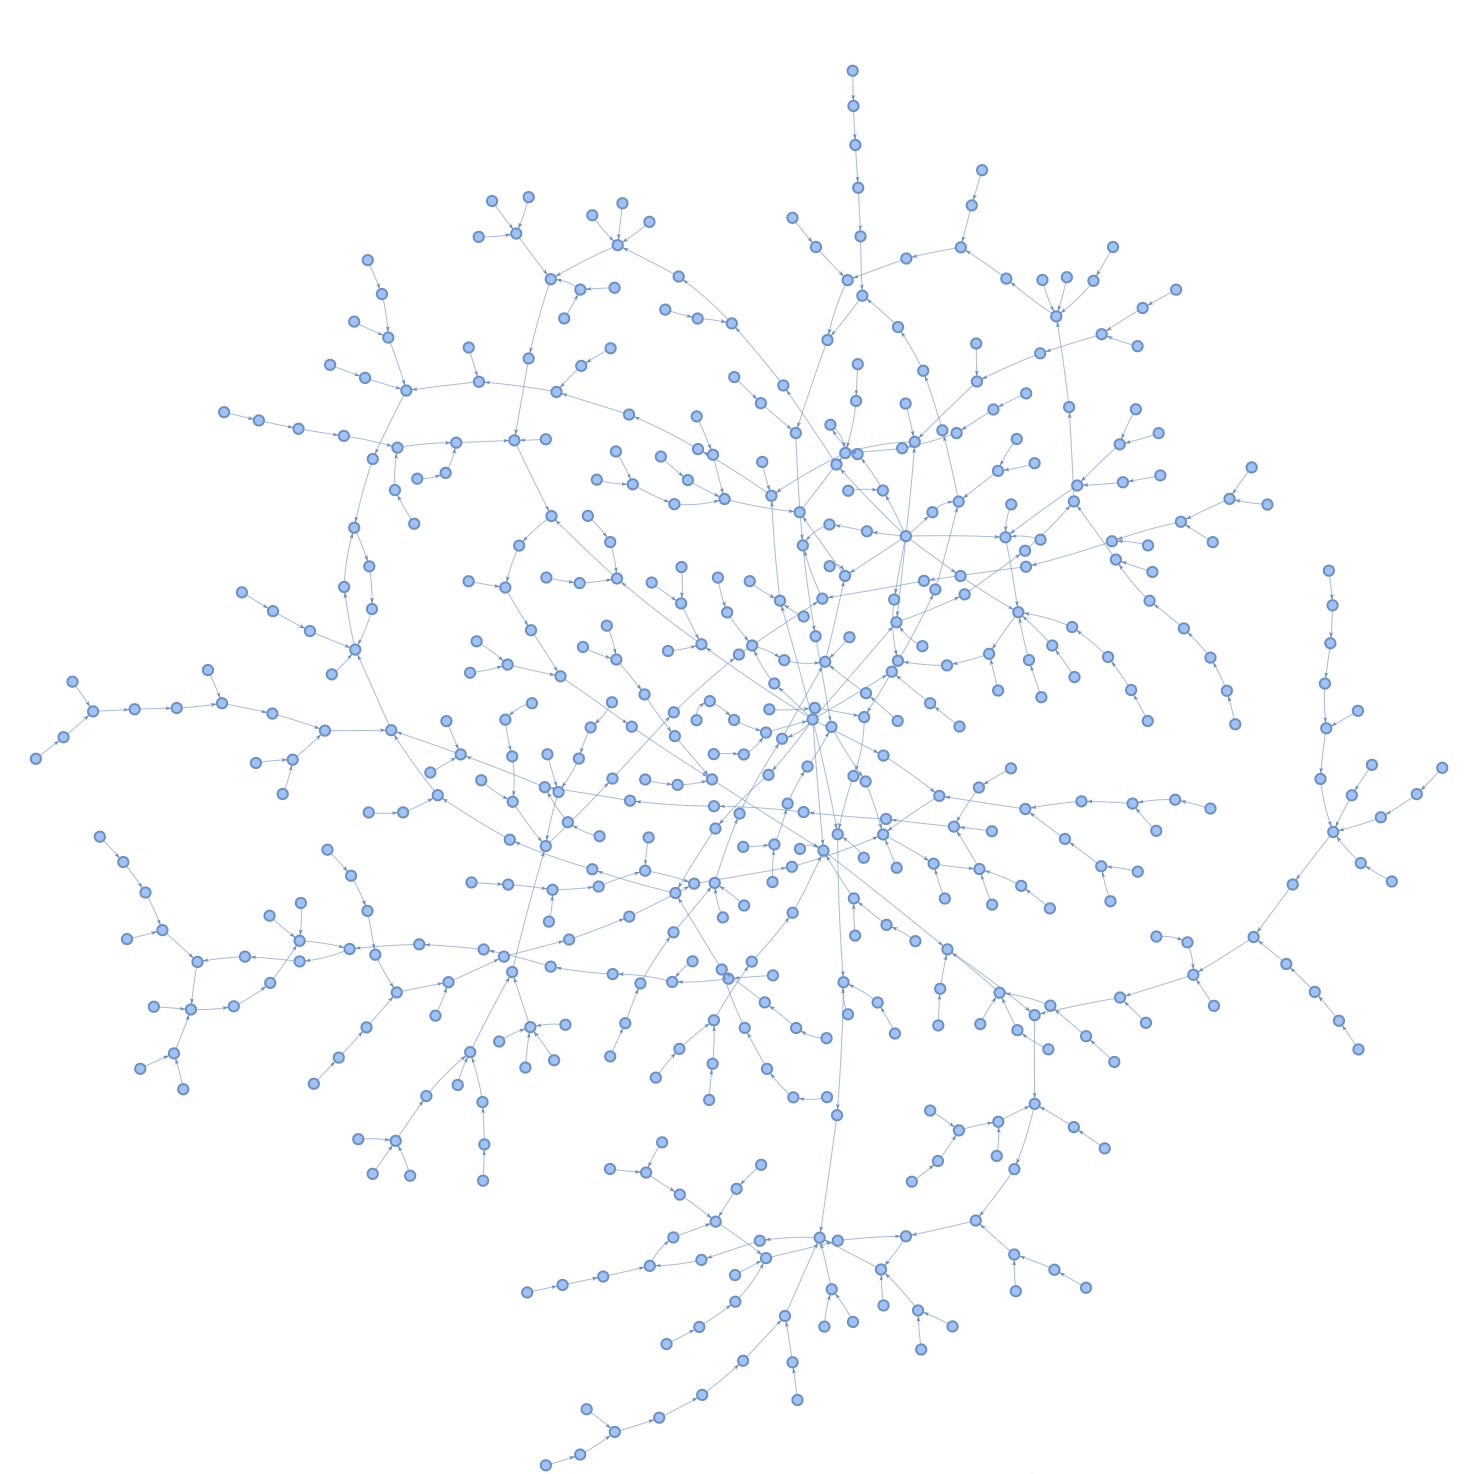
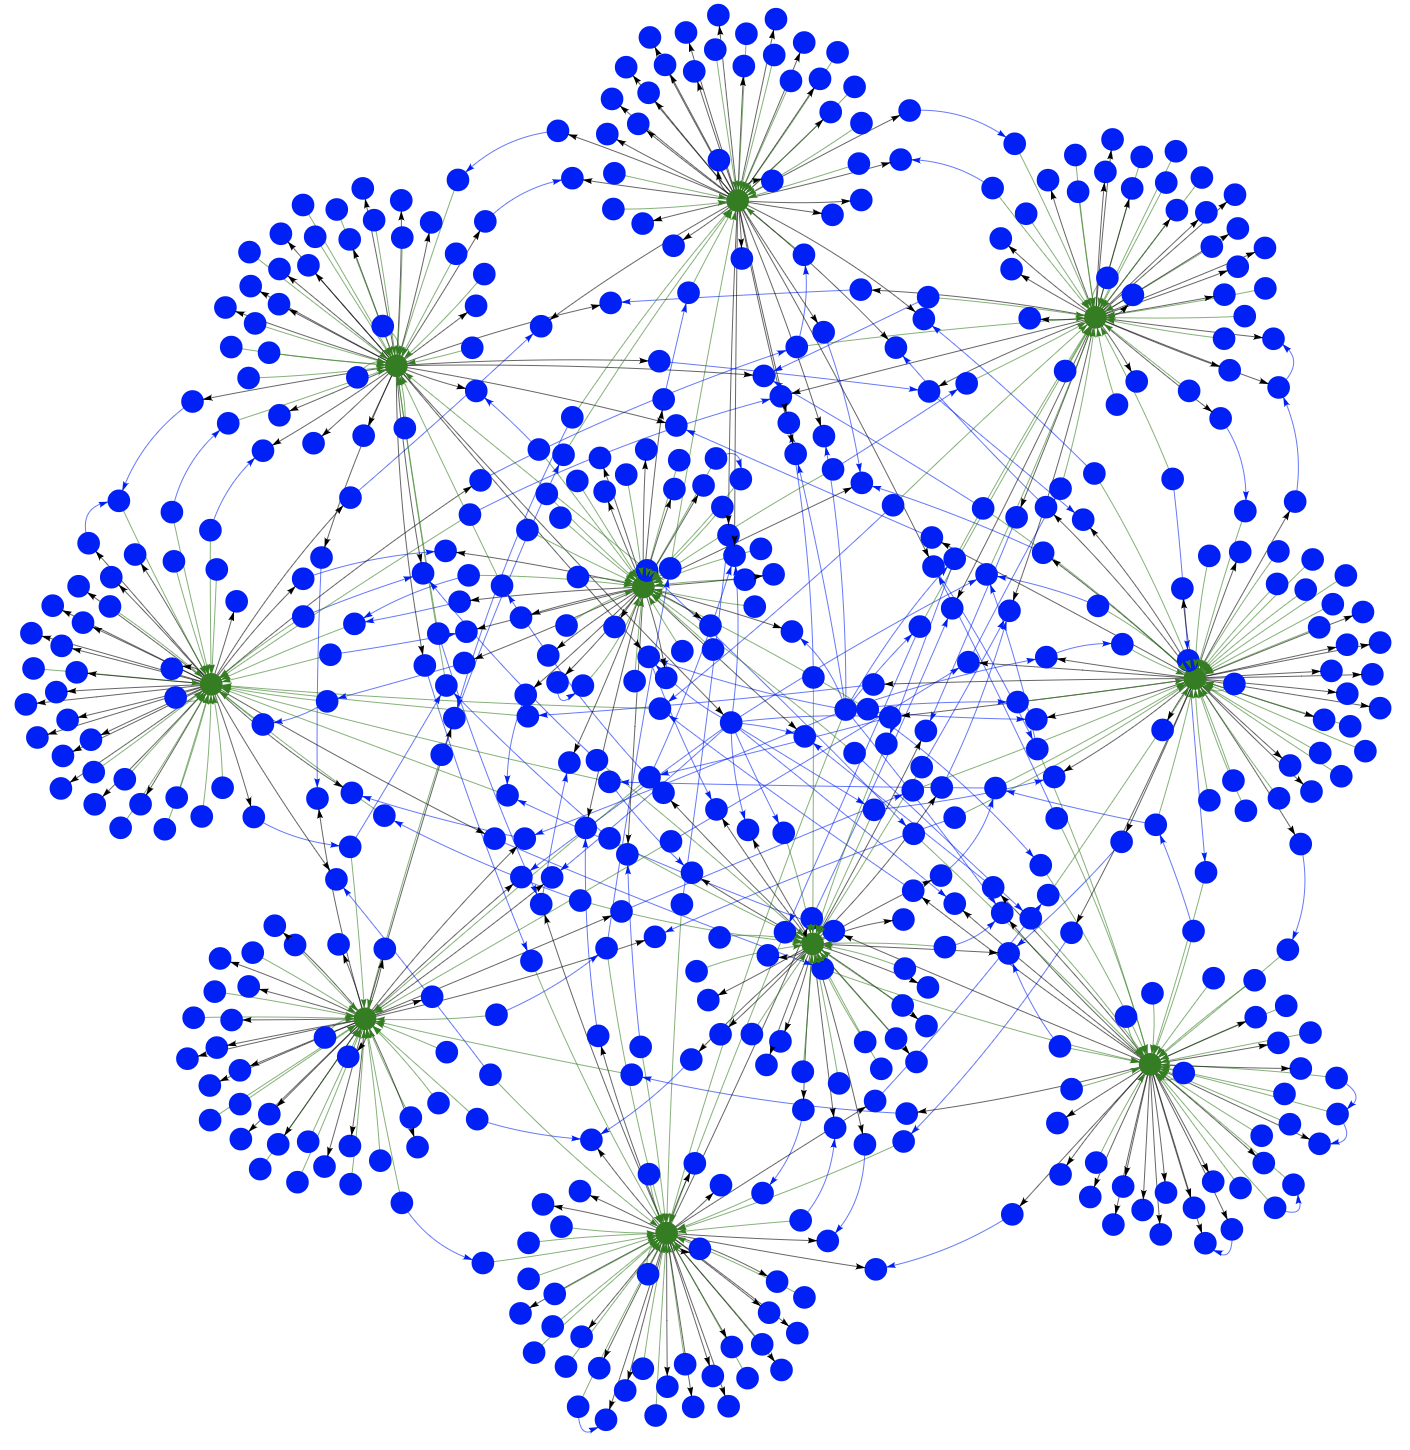
extend example with product node and different edges

diff --git a/sql_queries.py b/sql_queries.py
@@ -12,74 +12,56 @@ conn = psycopg2.connect(database='postgres',
 cursor = conn.cursor(cursor_factory=psycopg2.extras.DictCursor)
 
 parser = argparse.ArgumentParser('sql_queries')
-parser.add_argument('node', help='node id to query', nargs='?', type=int, default=1)
+parser.add_argument('node', help='node id to query', nargs='?', type=int, default=11)
 args = parser.parse_args()
 node_to_query = args.node
 
-def print_result(sql):
+def print_table(sql):
     cursor.execute(sql)
-    for i in cursor.fetchall():
-        print(i)
+    result = cursor.fetchall()
+    print(tabulate(result, headers={}, tablefmt='grid'))  
 
-print('\n --- outgoing results')
-sql = f"""
+current_node_sql = f"""SELECT nodes.* FROM nodes WHERE id = {node_to_query};"""
+
+outgoing_sql = f"""
 SELECT nodes.*
   FROM nodes
 JOIN edges ON nodes.id = edges.next_node
   WHERE edges.previous_node = {node_to_query};
 """
-cursor.execute(sql)
-result = cursor.fetchall()
-table = result
-print(tabulate(table, headers={}, tablefmt="grid"))
 
-print('\n --- depth outgoing results')
-sql = f"""
-SELECT DISTINCT e2.next_node
+outgoing_outgoing_sql = f"""
+SELECT DISTINCT e2.next_node, *
   FROM edges AS e1 
 JOIN edges AS e2 ON e1.next_node = e2.previous_node 
-  WHERE 
-    e1.label = 'LIKES' AND 
-    e2.label = 'LIKES' AND 
+  WHERE  
     e1.previous_node = {node_to_query} AND 
     e1.next_node <> {node_to_query} AND 
     e2.next_node <> {node_to_query};
 """
-cursor.execute(sql)
-result = cursor.fetchall()
-table = result
-print(tabulate(table, headers={}, tablefmt="grid"))
 
-sql = f"""
+union_sql = f"""
 SELECT DISTINCT nodes.id, 1 AS depth
   FROM nodes 
 JOIN edges ON nodes.id = edges.next_node AND edges.previous_node = {node_to_query} 
-  WHERE edges.label = 'LIKES'    
 UNION
 SELECT DISTINCT e2.next_node, 2 AS depth
   FROM edges AS e1 
 JOIN edges AS e2 ON e1.next_node = e2.previous_node 
   WHERE 
-    e1.label = 'LIKES' AND 
-    e2.label = 'LIKES' AND 
     e1.previous_node = {node_to_query} AND 
     e1.next_node <> {node_to_query} AND 
     e2.next_node <> {node_to_query};
 """
-print('\n --- union results')
-cursor.execute(sql)
-result = cursor.fetchall()
-table = result
-print(tabulate(table, headers={}, tablefmt="grid"))
 
-sql = f"""
+recursive_sql = f"""
 WITH RECURSIVE likes AS (
   SELECT
     next_node AS id,
     1 AS depth,
     ARRAY[previous_node] AS path
   FROM edges
-    WHERE previous_node = {node_to_query}
+    WHERE previous_node = {node_to_query} AND label = 'LIKES'
   UNION ALL
   SELECT
     edges.next_node,
@@ -87,14 +69,20 @@ WITH RECURSIVE likes AS (
     likes.path || edges.previous_node
   FROM likes
     JOIN edges ON edges.previous_node = likes.id
-    WHERE NOT edges.next_node = ANY(likes.path)
+    WHERE NOT edges.next_node = ANY(likes.path) AND edges.label = 'LIKES'
 )
 SELECT id, depth, path || id AS path
 FROM likes
-WHERE depth <= 3;
+WHERE depth <= 1;
 """
+
+print('\n --- current node')
+print_table(current_node_sql)
+print('\n --- outgoing results')
+print_table(outgoing_sql)
+print('\n --- depth outgoing results')
+print_table(outgoing_outgoing_sql)
+print('\n --- union results')
+print_table(union_sql)
 print('\n --- recursive results')
-cursor.execute(sql)
-result = cursor.fetchall()
-table = result
-print(tabulate(table, headers={}, tablefmt="grid"))
+print_table(recursive_sql)

diff --git a/generate_sql.py b/generate_sql.py
@@ -14,6 +14,11 @@ json_data = response.json()
 
 sql_file = open('./initdb/init.sql', 'w')
 
+# products
+products = []
+for p in range(10):
+    products.append(f'Product {p + 1}')
+
 # prepare dates in a range
 numdays = 100
 base = datetime.today()
@@ -37,10 +42,20 @@ CREATE TABLE edges (
   CHECK (previous_node != next_node)
 );
 
-CREATE INDEX edges_label ON nodes (label);
+CREATE INDEX edges_label ON edges (label);
+CREATE INDEX edges_next_node ON edges (next_node);
 \n"""
 
 sql_file.write(create_tables)
+sql_file.write('-- products\n')
+for product in products:
+    s = ('INSERT INTO nodes (label, props) VALUES '
+         f'(\'Product\', \'{{"name": "{product}"}}\')'
+         ';\n')
+    sql_file.write(s)
+
+sql_file.write('\n')
+
 sql_file.write('-- random user\n')
 for result in json_data['results']:
     res = choices(res_dates)
@@ -54,40 +69,57 @@ for result in json_data['results']:
 sql_file.write('\n')
 
 sql_file.write('-- edges for first user\n')
-random_list = sample(range(1, nodes), 10)
+random_list = sample(range(12, nodes), 15)
 for i in random_list:
     res = choices(res_dates)
     ts = round(res[0].timestamp())
     s = ('INSERT INTO edges (previous_node, next_node, label, props) VALUES '
-         f'(1, {i}, \'LIKES\', \'{{"since": {ts}}}\')'
+         f'(11, {i}, \'LIKES\', \'{{"since": {ts}}}\')'
         ';\n')
     sql_file.write(s)
 
 sql_file.write('\n')
 
 sql_file.write('-- edges for second user\n')
-random_list = sample(range(2, nodes), 10)
+random_list = sample(range(13, nodes), 10)
 for i in random_list:
     res = choices(res_dates)
     ts = round(res[0].timestamp())
     s = ('INSERT INTO edges (previous_node, next_node, label, props) VALUES '
-         f'(2, {i}, \'LIKES\', \'{{"since": {ts}}}\')'
+         f'(12, {i}, \'LIKES\', \'{{"since": {ts}}}\')'
         ';\n')
     sql_file.write(s)
 
 sql_file.write('\n')
 
 sql_file.write('-- random edges for user\n')
-r = sample(range(2, nodes), nodes - 2)
-for i in range(3, nodes):
+r = sample(range(11, nodes), nodes - 11)
+for i in range(11, round(nodes/4)):
     _r = choices(r)
-    if i == _r[0]:
-        while i == _r[0]:
-            _r = choices(r)
+    while i == _r[0]:
+        _r = choices(r)
     res = choices(res_dates)
     ts = round(res[0].timestamp())
     s = ('INSERT INTO edges (previous_node, next_node, label, props) VALUES '
          f'({i}, {_r[0]}, \'LIKES\', \'{{"since": {ts}}}\')'
+        ';\n')
+    sql_file.write(s)
+
+sql_file.write('\n')
+
+sql_file.write('-- user product relationships\n')
+user_product_relationships = ['CONTRIBUTES', 'USES']
+for i in range(nodes):
+    product = choices(products)
+    label = choices(user_product_relationships)[0]
+    if label == 'CONTRIBUTES':
+        previous = i + 11
+        next = product[0].split(' ')[1]
+    elif label == 'USES':
+        previous = product[0].split(' ')[1]
+        next = i + 11
+    s = ('INSERT INTO edges (previous_node, next_node, label, props) VALUES '
+        f'({previous}, {next}, \'{label}\', \'{{"since": {ts}}}\')'
         ';\n')
     sql_file.write(s)
 

diff --git a/display.py b/display.py
@@ -16,10 +16,18 @@ g = Network(width='100%',
 
 cursor.execute('SELECT * FROM nodes')
 for i in cursor.fetchall():
-    g.add_node(i[0], size=20, label=f'{i[0]} {i[2]['name']}', title=f'{i[2]}')
+    color = 'blue'
+    if i[1] == 'Product':
+        color = 'green'
+    g.add_node(i[0], size=20, label=f'{i[0]} {i[2]['name']}', title=f'{i[2]}', color=color)
 
 cursor.execute('SELECT * FROM edges')
 for i in cursor.fetchall():
-    g.add_edge(i[0], i[1], title=f'{i[2]}\n{i[3]}')
+    color = 'blue'
+    if i[2] == 'USES':
+        color = 'black'
+    elif i[2] == 'CONTRIBUTES':
+        color = 'green'
+    g.add_edge(i[0], i[1], title=f'{i[2]}\n{i[3]}', color=color)
 
 g.show('show.html', notebook=False)

diff --git a/README.md b/README.md
@@ -57,21 +57,22 @@ Run the following command:
 python display.py
 ```
 
-This will create a visualization of the graph, showing users and their `LIKES` relationships.
+This will create a visualization of the graph.
 
 ![graph screenshot](graph.png "Graph Screenshot")
 
 ### Database Structure
 
-- **Nodes**: Represented by the `USER` label. Each node contains a `label` (string) and `props` (JSON) to store relevant information.
-- **Edges**: Represented by the `LIKES` label, indicating the relationship between users. Each edge has a `previous` and `next` field containing the ID of the respective nodes to show the direction of the relationship.
+- **Nodes**: Represented by the `Product` and `User` label. Each node contains a `label` (string) and `props` (JSON) to store relevant information.
+- **Edges**: Represented by the `LIKES` label, indicating the relationship between users. Each edge has a `previous` and `next` field containing the ID of the respective nodes to show the direction of the relationship. Relationships between users and products are represented by the `CONTRIBUTES` or `USES` label.
 
 ### Example Use Case
 
-In this example, all users (nodes) have the `USER` label, and edges (connections between users) have the `LIKES` label, forming a graph where `USER`, `LIKES` each other.
+In this example, all users (nodes) have the `USER` label, and edges (connections between users) have the `LIKES` label, forming a graph where `USER`, `LIKES` each other and user `CONTRIBUTES` or `USES` a product.
+ 
+The first ten nodes are products and user nodes are following, so the first user node have the id 11.
 
 It's simple to add other labels to have different nodes with different edges.  
-To extend to a `USER` `LIKES` `PRODUCT` or `USER`, `WORKS`, `COMPANY` graph structure.
 
 This is just a basic example of using PostgreSQL for graph-like data storage. You can modify the SQL schema and queries in the `generate_sql.py` script to suit your specific use case and graph structure.
 
@@ -83,19 +84,19 @@ Query the graph for getting all nodes, all labels of the nodes or all nodes with
     SELECT DISTINCT label FROM nodes;
     SELECT * FROM nodes WHERE label='User';
 
-Get all outgoing or incoming nodes for a specific node (id = 1).
+Get all outgoing or incoming nodes for a specific node (id = 11).
 
     SELECT *
       FROM nodes
     JOIN edges ON nodes.id = edges.next_node
-      WHERE edges.previous_node = 1;
+      WHERE edges.previous_node = 11;
 
     SELECT *
       FROM nodes
     JOIN edges ON nodes.id = edges.previous_node
-      WHERE edges.next_node = 1;
+      WHERE edges.next_node = 11;
 
-Retrieve the IDs of the nodes that are connected to the nodes associated with the node (id = 1).
+Retrieve the IDs of the nodes that are connected to the nodes associated with the node (id = 11).
 
     SELECT DISTINCT e2.next_node
       FROM edges AS e1 
@@ -103,15 +104,15 @@ Retrieve the IDs of the nodes that are connected to the nodes associated with th
       WHERE 
         e1.label = 'LIKES' AND 
         e2.label = 'LIKES' AND 
-        e1.previous_node = 1 AND 
-        e1.next_node <> 1 AND 
+        e1.previous_node = 11 AND 
+        e1.next_node <> 11 AND 
         e2.next_node <> 1;
 
-Use `UNION` explore depth of relationships.
+Use `UNION` explore depth of relationships from the node (id = 11).
 
     SELECT DISTINCT nodes.id, 1 AS depth
       FROM nodes 
-    JOIN edges ON nodes.id = edges.next_node AND edges.previous_node = 1 
+    JOIN edges ON nodes.id = edges.next_node AND edges.previous_node = 11 
       WHERE edges.label = 'LIKES'    
     UNION
     SELECT DISTINCT e2.next_node, 2 AS depth
@@ -120,11 +121,11 @@ Use `UNION` explore depth of relationships.
       WHERE 
         e1.label = 'LIKES' AND         
         e2.label = 'LIKES' AND 
-        e1.previous_node = 1 AND 
-        e1.next_node <> 1 AND 
-        e2.next_node <> 1;
+        e1.previous_node = 11 AND 
+        e1.next_node <> 11 AND 
+        e2.next_node <> 11;
 
-Use `RECURSIVE` to get the depth and path from one node to another.
+Use `RECURSIVE` to get the depth and path from one node to another from the node (id = 1).
 
     WITH RECURSIVE likes AS (
         SELECT
@@ -132,7 +133,7 @@ Use `RECURSIVE` to get the depth and path from one node to another.
           1 AS depth,
           ARRAY[previous_node] AS path
         FROM edges
-          WHERE previous_node = 1
+          WHERE previous_node = 11 AND label = 'LIKES'
         UNION ALL
         SELECT
           edges.next_node,
@@ -140,7 +141,7 @@ Use `RECURSIVE` to get the depth and path from one node to another.
           likes.path || edges.previous_node
         FROM likes
           JOIN edges ON edges.previous_node = likes.id
-          WHERE NOT edges.next_node = ANY(likes.path)
+          WHERE NOT edges.next_node = ANY(likes.path) AND label = 'LIKES'
     )
     SELECT id, depth, path || id AS path
     FROM likes
@@ -148,7 +149,7 @@ Use `RECURSIVE` to get the depth and path from one node to another.
 
 The script executes some of the SQL statements and print it as table to the console.
 
-    python sql_queries.py     # uses node id 1 as default
+    python sql_queries.py     # uses node id 11 as default
     python sql_queries.py 100 # uses node id 100
 
 How to define the SQL queries and the structure of the graph is depending on the use case.  
